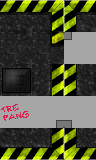
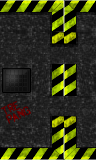
more wilso changes; NEED HIT FIX

Changed region(s): [[0.0, 0.5938, 1.0, 0.8125], [0.625, 0.1875, 1.0, 0.4062], [0.5938, 0.25, 0.625, 0.2812]]

diff --git a/MagnetBoy/MagnetBoy/MagnetBoy/WalkingEnemy.cs b/MagnetBoy/MagnetBoy/MagnetBoy/WalkingEnemy.cs
@@ -35,7 +35,7 @@ namespace MagnetBoy
             pole = newPole;
             magneticMoment = 0.5f;
 
-            solid = false;
+            solid = true;
         }
 
         protected override void enemyUpdate(GameTime currentTime)
